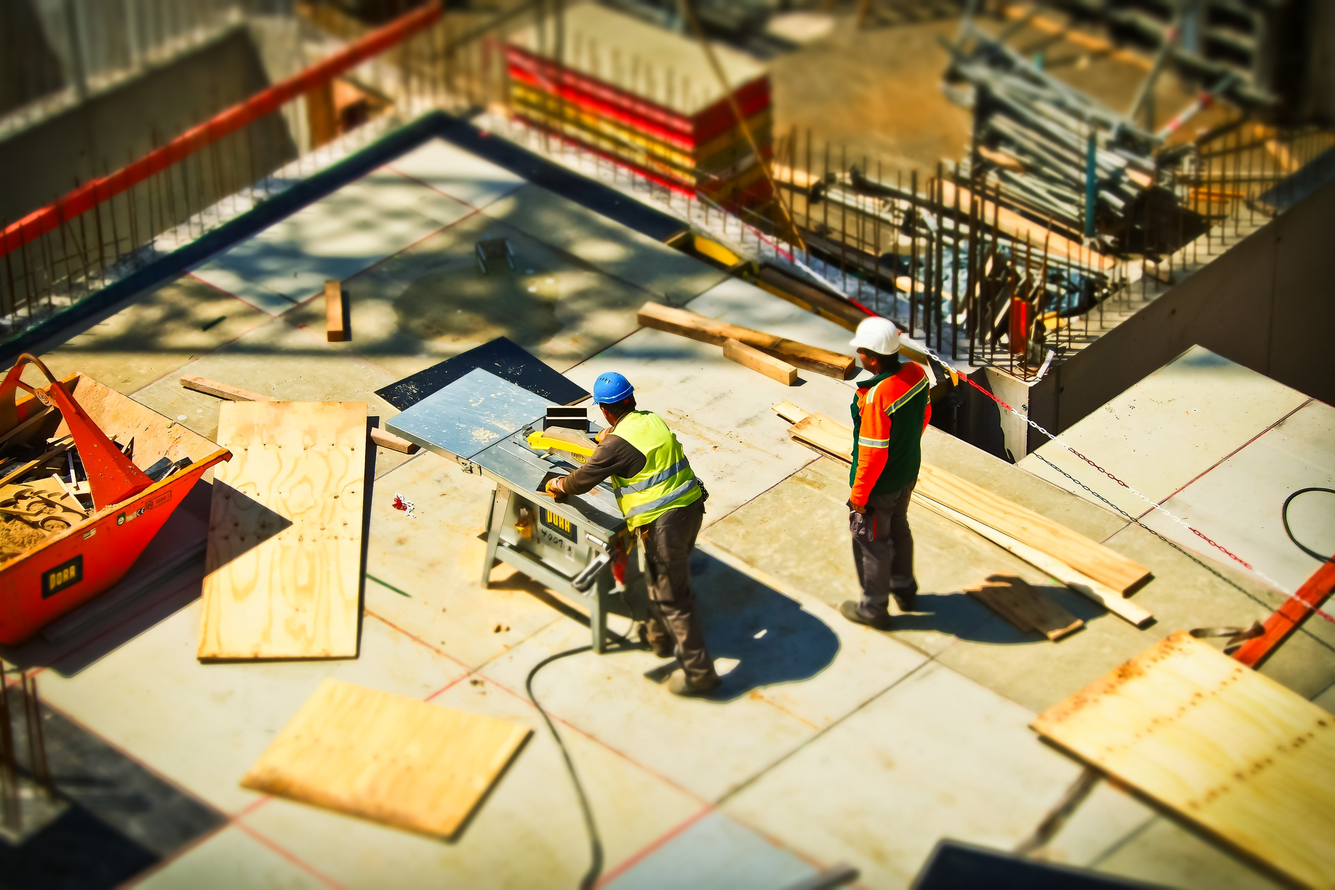
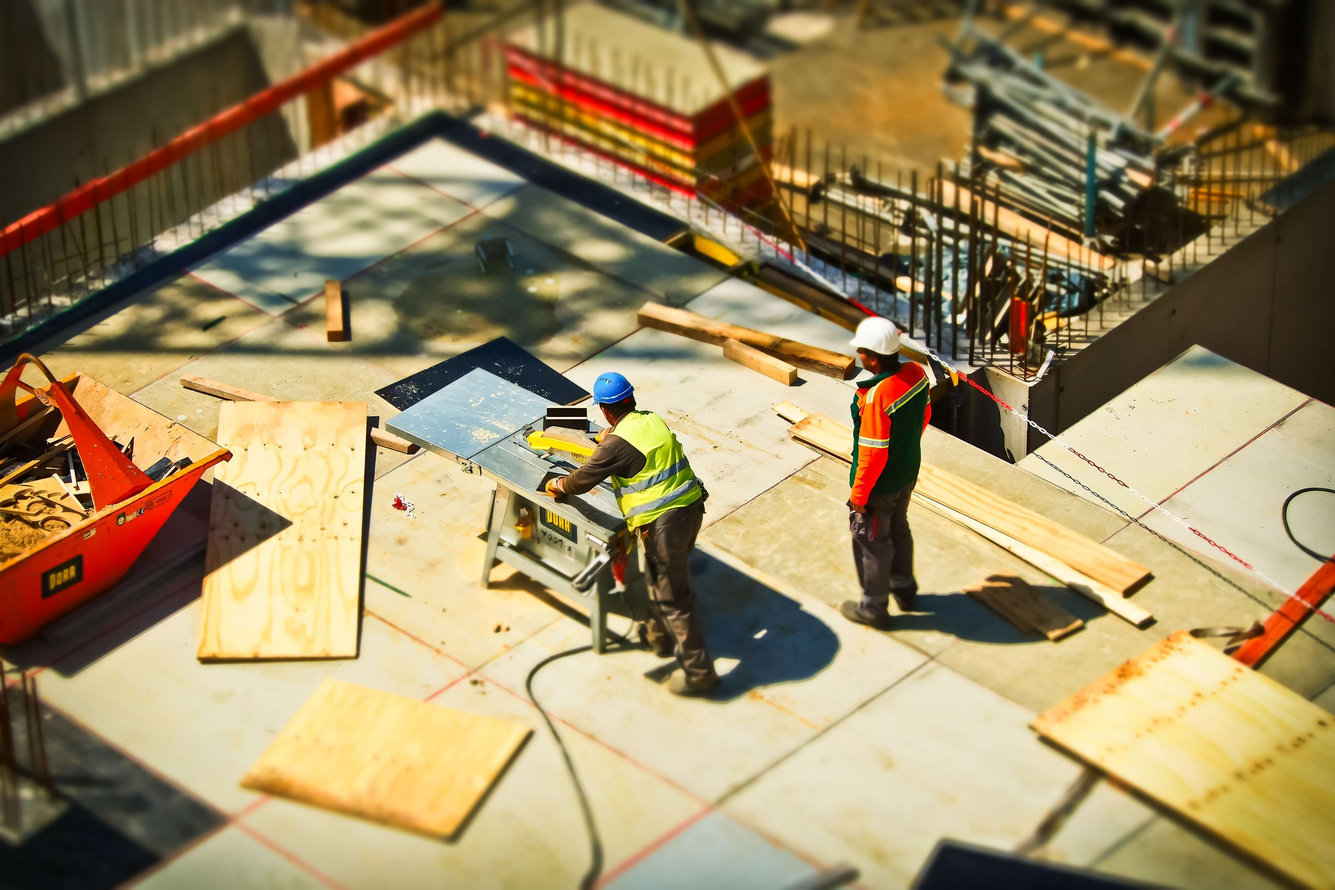
Updates

diff --git a/main.51c159ab.css b/main.51c159ab.css
@@ -1,2 +1,2 @@
-input[type=range]{-webkit-appearance:none;margin:10px 0;height:0;width:100%;background-color:initial;position:relative}@media only screen and (max-width:410px){input[type=range]{position:unset}}input[type=range]:focus{outline:none}input[type=range]::-webkit-slider-runnable-track{width:100%;height:6px;cursor:pointer;animate:.2s;background:#000;border-radius:3px}input[type=range]::-webkit-slider-thumb{box-shadow:1px 1px 1px #30302f,0 0 1px #30302f;border:1px solid #000;height:25px;width:25px;border-radius:50%;background:grey;cursor:pointer;-webkit-appearance:none;margin-top:-10px}input[type=range]::-moz-range-thumb{box-shadow:1px 1px 1px #30302f,0 0 1px #30302f;border:1px solid #000;height:25px;width:25px;border-radius:50%;background:grey;cursor:pointer;-webkit-appearance:none;margin-top:-10px}*{margin:0;padding:0;box-sizing:border-box;user-select:none;font-family:inherit;letter-spacing:inherit}canvas{width:100vw;height:100vh}html{letter-spacing:.04em!important}body,html{height:100%;font-family:Anton,sans-serif}body{overflow:hidden}body .hidden{display:none!important}.seedButton{position:absolute;cursor:pointer;display:none;transition:transform .3s}.seedButton.active{display:block;animation:jumpOut .3s ease-out}.seedButton__image{position:relative;width:80px;height:90px;background-image:url(Seed.c437c8b3.svg);background-size:contain;background-repeat:no-repeat;animation:float .6s ease-in-out infinite alternate;animation-delay:.3s}.seedButton:hover{transform:translateY(-10px)}.seedButton:hover .seedButton__image{animation-play-state:paused}@keyframes float{0%{transform:translateY(0)}to{transform:translateY(-10px)}}@keyframes jumpOut{0%{transform:translateY(50px) scale(.5)}to{transform:translateY(0) scale(1)}}.screen{position:absolute;width:100vw;height:100vh;background:#000}#gameOverScreen{z-index:1;display:grid;place-items:center;place-content:center;color:#fff}#gameOverScreen .score-container .final-score{height:45vh}#gameOverScreen .score-container #score{position:absolute;left:50%;transform:translateX(-50%);color:#000;text-align:center;line-height:45vh;font-size:5vh}#gameOverScreen .score-stats{display:flex;flex-direction:column;text-align:center;font-size:2.5vh;margin-top:-20vh;color:#00a400}#gameOverScreen .score-stats small{color:#fff}#gameOverScreen .button{margin-top:5vh}.level-display{position:absolute;padding:10px 15px;background:transparent;border:2px solid #fff;width:50px;height:50px;border-radius:50%;left:50%;transform:translateX(-50%);top:20px;pointer-events:none}#loadingScreen,.level-display{display:grid;place-items:center;place-content:center;color:#fff}#loadingScreen{z-index:1}#loadingScreen svg{width:7vw;fill:none;stroke:#27a102;stroke-dasharray:400;animation:dash 3s linear infinite}@keyframes dash{to{stroke-dashoffset:800}}#titleScreen{z-index:2;display:grid;place-items:center;place-content:center;color:#fff}#titleScreen .background{position:absolute;background-image:url(title-background.6090d9fc.png);background-size:100% 100%;filter:brightness(.2) blur(6px);background-repeat:no-repeat;z-index:-1;width:100vw;height:100vh}#titleScreen img{width:600px}#titleScreen .menu{display:flex;flex-direction:column;align-items:center;margin-top:7vh}#titleScreen .menu .button{margin-top:20px}#titleScreen .menu .settings{padding:15px 50px;font-size:20px}.game .button{position:absolute;padding:10px 15px;left:20px;bottom:20px;font-size:17px}.button,.game .button{color:#fff;cursor:pointer}.button{border:none;display:inline-block;padding:18px 60px;font-size:23px;background-color:initial;background-image:url(button.fa43d100.svg);background-size:100% 100%}.button:hover{filter:brightness(.9)}#tutorialScreen{z-index:1;display:grid;place-items:center;place-content:center}#tutorialScreen .background{position:absolute;background-image:url(title-background.6090d9fc.png);background-size:100% 100%;filter:brightness(.2) blur(6px);background-repeat:no-repeat;z-index:-1;width:100vw;height:100vh}#tutorialScreen .button{margin-top:4vh}.settings-modal{position:absolute;z-index:10;max-width:700px;width:100%;left:50%;top:50%;transform:translate(-50%,-50%);background-color:#303030;border:10px solid #000;border-radius:5px;padding:40px;color:#fff;font-size:30px}.settings-modal input{margin-bottom:40px}.settings-modal .close-button{position:absolute;filter:brightness(.7);top:5px;right:5px;padding:0;width:40px;height:40px}.settings-modal .difficulty{border:6px solid #000;display:inline-flex;justify-content:center;width:auto}.settings-modal .difficulty-label{display:block;margin-bottom:15px}.settings-modal .radio{position:absolute;visibility:hidden}.settings-modal .radio:checked+.button{filter:brightness(.7)}.settings-modal .radio:checked+.button[for=easy]{color:green}.settings-modal .radio:checked+.button[for=normal]{color:orange}.settings-modal .radio:checked+.button[for=hard]{color:red}.score-counter{width:150px;position:absolute;top:25px;right:25px}.score-counter .cls-1{fill:#fff;stroke-width:2px;stroke:#009245;stroke-miterlimit:10}.score-counter .cls-2{fill:#39b54a}.score-counter .score{position:absolute;top:28px;font-size:25px;right:77px}.streak-container{position:absolute;right:2vw;bottom:0;background-image:url(multiplier.e2b822be.svg);background-size:100%;width:14vw;height:14vw;display:flex;align-items:center;justify-content:center}.streak-container .streak{color:#fff;font-size:40px}.streak-container .streak.streak-animation{animation:streak_kf;animation-duration:.5s;animation-iteration-count:1}@keyframes streak_kf{0%{transform:scale(1)}50%{transform:scale(1.5)}to{transform:scale(1)}}.tutorial{display:flex;justify-content:center;align-items:center}.tutorial__box{border:2px solid #fff;margin:0 20px;background-size:100% 100%;border-radius:.5vw;overflow:hidden;padding:0 0 .2vw}.tutorial__box img{max-width:18vw;max-height:45vh;width:auto;height:auto;display:block}.tutorial__heading{font-size:50px;color:#fff}.controls{margin-bottom:3vh;display:flex;justify-content:center}.controls-heading{color:#fff;display:block;margin-bottom:2vh;font-size:2vw}.controls img{max-width:30vw;max-height:20vh}#construction{position:absolute;top:0;left:0;z-index:100000;background-image:url(constbg.32115f59.jpg);background-size:cover;filter:grayscale(1);width:100vw;height:100vh;display:grid;place-content:center;place-items:center}#construction img{width:30vh}
+input[type=range]{-webkit-appearance:none;margin:10px 0;height:0;width:100%;background-color:initial;position:relative}@media only screen and (max-width:410px){input[type=range]{position:unset}}input[type=range]:focus{outline:none}input[type=range]::-webkit-slider-runnable-track{width:100%;height:6px;cursor:pointer;animate:.2s;background:#000;border-radius:3px}input[type=range]::-webkit-slider-thumb{box-shadow:1px 1px 1px #30302f,0 0 1px #30302f;border:1px solid #000;height:25px;width:25px;border-radius:50%;background:grey;cursor:pointer;-webkit-appearance:none;margin-top:-10px}input[type=range]::-moz-range-thumb{box-shadow:1px 1px 1px #30302f,0 0 1px #30302f;border:1px solid #000;height:25px;width:25px;border-radius:50%;background:grey;cursor:pointer;-webkit-appearance:none;margin-top:-10px}*{margin:0;padding:0;box-sizing:border-box;user-select:none;font-family:inherit;letter-spacing:inherit}canvas{width:100vw;height:100vh}html{letter-spacing:.04em!important}body,html{height:100%;font-family:Anton,sans-serif}body{overflow:hidden}body .hidden{display:none!important}.seedButton{position:absolute;cursor:pointer;display:none;transition:transform .3s}.seedButton.active{display:block;animation:jumpOut .3s ease-out}.seedButton__image{position:relative;width:80px;height:90px;background-image:url(Seed.c437c8b3.svg);background-size:contain;background-repeat:no-repeat;animation:float .6s ease-in-out infinite alternate;animation-delay:.3s}.seedButton:hover{transform:translateY(-10px)}.seedButton:hover .seedButton__image{animation-play-state:paused}@keyframes float{0%{transform:translateY(0)}to{transform:translateY(-10px)}}@keyframes jumpOut{0%{transform:translateY(50px) scale(.5)}to{transform:translateY(0) scale(1)}}.screen{position:absolute;width:100vw;height:100vh;background:#000}#gameOverScreen{z-index:1;display:grid;place-items:center;place-content:center;color:#fff}#gameOverScreen .score-container .final-score{height:45vh}#gameOverScreen .score-container #score{position:absolute;left:50%;transform:translateX(-50%);color:#000;text-align:center;line-height:45vh;font-size:5vh}#gameOverScreen .score-stats{display:flex;flex-direction:column;text-align:center;font-size:2.5vh;margin-top:-20vh;color:#00a400}#gameOverScreen .score-stats small{color:#fff}#gameOverScreen .button{margin-top:5vh}.level-display{position:absolute;padding:10px 15px;background:transparent;border:2px solid #fff;width:50px;height:50px;border-radius:50%;left:50%;transform:translateX(-50%);top:20px;pointer-events:none}#loadingScreen,.level-display{display:grid;place-items:center;place-content:center;color:#fff}#loadingScreen{z-index:1}#loadingScreen svg{width:7vw;fill:none;stroke:#27a102;stroke-dasharray:400;animation:dash 3s linear infinite}@keyframes dash{to{stroke-dashoffset:800}}#titleScreen{z-index:2;display:grid;place-items:center;place-content:center;color:#fff}#titleScreen .background{position:absolute;background-image:url(title-background.6090d9fc.png);background-size:100% 100%;filter:brightness(.2) blur(6px);background-repeat:no-repeat;z-index:-1;width:100vw;height:100vh}#titleScreen img{width:600px}#titleScreen .menu{display:flex;flex-direction:column;align-items:center;margin-top:7vh}#titleScreen .menu .button{margin-top:20px}#titleScreen .menu .settings{padding:15px 50px;font-size:20px}.game .button{position:absolute;padding:10px 15px;left:20px;bottom:20px;font-size:17px}.button,.game .button{color:#fff;cursor:pointer}.button{border:none;display:inline-block;padding:18px 60px;font-size:23px;background-color:initial;background-image:url(button.fa43d100.svg);background-size:100% 100%}.button:hover{filter:brightness(.9)}#tutorialScreen{z-index:1;display:grid;place-items:center;place-content:center}#tutorialScreen .background{position:absolute;background-image:url(title-background.6090d9fc.png);background-size:100% 100%;filter:brightness(.2) blur(6px);background-repeat:no-repeat;z-index:-1;width:100vw;height:100vh}#tutorialScreen .button{margin-top:4vh}.settings-modal{position:absolute;z-index:10;max-width:700px;width:100%;left:50%;top:50%;transform:translate(-50%,-50%);background-color:#303030;border:10px solid #000;border-radius:5px;padding:40px;color:#fff;font-size:30px}.settings-modal input{margin-bottom:40px}.settings-modal .close-button{position:absolute;filter:brightness(.7);top:5px;right:5px;padding:0;width:40px;height:40px}.settings-modal .difficulty{border:6px solid #000;display:inline-flex;justify-content:center;width:auto}.settings-modal .difficulty-label{display:block;margin-bottom:15px}.settings-modal .radio{position:absolute;visibility:hidden}.settings-modal .radio:checked+.button{filter:brightness(.7)}.settings-modal .radio:checked+.button[for=easy]{color:green}.settings-modal .radio:checked+.button[for=normal]{color:orange}.settings-modal .radio:checked+.button[for=hard]{color:red}.score-counter{width:150px;position:absolute;top:25px;right:25px}.score-counter .cls-1{fill:#fff;stroke-width:2px;stroke:#009245;stroke-miterlimit:10}.score-counter .cls-2{fill:#39b54a}.score-counter .score{position:absolute;top:28px;font-size:25px;right:77px}.streak-container{position:absolute;right:2vw;bottom:0;background-image:url(multiplier.e2b822be.svg);background-size:100%;width:14vw;height:14vw;display:flex;align-items:center;justify-content:center}.streak-container .streak{color:#fff;font-size:40px}.streak-container .streak.streak-animation{animation:streak_kf;animation-duration:.5s;animation-iteration-count:1}@keyframes streak_kf{0%{transform:scale(1)}50%{transform:scale(1.5)}to{transform:scale(1)}}.tutorial{display:flex;justify-content:center;align-items:center}.tutorial__box{border:2px solid #fff;margin:0 20px;background-size:100% 100%;border-radius:.5vw;overflow:hidden;padding:0 0 .2vw}.tutorial__box img{max-width:18vw;max-height:45vh;width:auto;height:auto;display:block}.tutorial__heading{font-size:50px;color:#fff}.controls{margin-bottom:3vh;display:flex;justify-content:center}.controls-heading{color:#fff;display:block;margin-bottom:2vh;font-size:2vw}.controls img{max-width:30vw;max-height:20vh}#construction{position:absolute;top:0;left:0;z-index:100000;background-image:url(constbg.db5f2dc4.jpg);background-size:cover;filter:grayscale(1);width:100vw;height:100vh;display:grid;place-content:center;place-items:center}#construction img{width:30vh}
 /*# sourceMappingURL=main.51c159ab.css.map */

diff --git a/main.965945b7.js b/main.965945b7.js
@@ -2,7 +2,7 @@ parcelRequire=function(e,r,t,n){var i,o="function"==typeof parcelRequire&&parcel
 module.exports={name:"Plants and Spiders",settings:{plants:{numberOfPots:3},lights:{numberOfLights:3},spiders:{EASY:{speed:.7},NORMAL:{speed:1.1},HARD:{speed:1.5}}},timing:{showSeeds:5,startLights:2,delayBetweenLights:1},levels:{EASY:[{numberOfSpiders:7},{numberOfSpiders:12},{numberOfSpiders:17},{numberOfSpiders:20}],NORMAL:[{numberOfSpiders:15},{numberOfSpiders:20},{numberOfSpiders:22},{numberOfSpiders:25}],HARD:[{numberOfSpiders:20},{numberOfSpiders:25},{numberOfSpiders:30},{numberOfSpiders:35}]}};
 },{}],"qN5A":[function(require,module,exports) {
 
-},{"C:\\Users\\adamg\\Projects\\plants\\static\\images\\Seed.svg":[["Seed.c437c8b3.svg","qUKa"],"qUKa"],"C:\\Users\\adamg\\Projects\\plants\\static\\images\\title-background.png":[["title-background.6090d9fc.png","Ac8Q"],"Ac8Q"],"C:\\Users\\adamg\\Projects\\plants\\static\\images\\button.svg":[["button.fa43d100.svg","XkrJ"],"XkrJ"],"C:\\Users\\adamg\\Projects\\plants\\static\\images\\multiplier.svg":[["multiplier.e2b822be.svg","lSn0"],"lSn0"],"C:\\Users\\adamg\\Projects\\plants\\static\\images\\constbg.jpg":[["constbg.32115f59.jpg","gmoG"],"gmoG"]}],"HJDO":[function(require,module,exports) {
+},{"C:\\Users\\adamg\\Projects\\plants\\static\\images\\Seed.svg":[["Seed.c437c8b3.svg","qUKa"],"qUKa"],"C:\\Users\\adamg\\Projects\\plants\\static\\images\\title-background.png":[["title-background.6090d9fc.png","Ac8Q"],"Ac8Q"],"C:\\Users\\adamg\\Projects\\plants\\static\\images\\button.svg":[["button.fa43d100.svg","XkrJ"],"XkrJ"],"C:\\Users\\adamg\\Projects\\plants\\static\\images\\multiplier.svg":[["multiplier.e2b822be.svg","lSn0"],"lSn0"],"C:\\Users\\adamg\\Projects\\plants\\static\\images\\constbg.jpg":[["constbg.db5f2dc4.jpg","gmoG"],"gmoG"]}],"HJDO":[function(require,module,exports) {
 "use strict";var e=t(require("/static/manifests/gameConfig.json"));function t(e){return e&&e.__esModule?e:{default:e}}require("./styles/style.scss"),console.log("Nothing to see here");const s=document.querySelector("#titleScreen"),n=document.querySelector("#tutorialScreen");s.addEventListener("click",()=>{s.classList.add("hidden"),n.addEventListener("click",()=>{n.classList.add("hidden"),GameLoop(e.default).then(e=>{console.log("All systems are go!"),e()})})});
 },{"/static/manifests/gameConfig.json":"FCNh","./styles/style.scss":"qN5A"}]},{},["HJDO"], null)
 //# sourceMappingURL=main.965945b7.js.map
